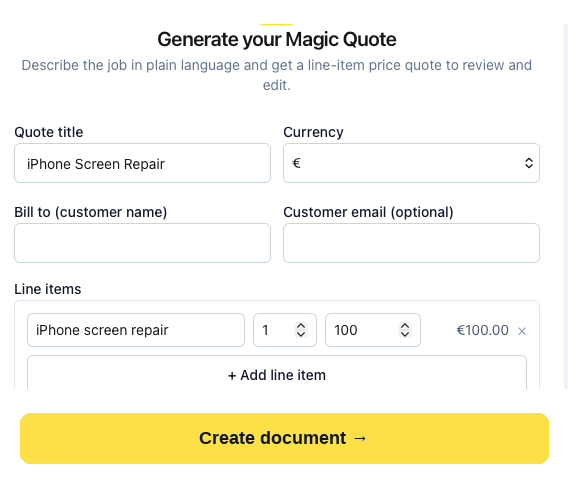
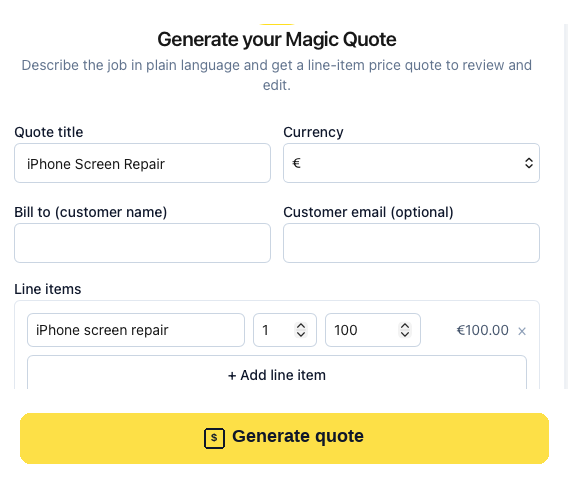
Home preview: fix Magic Quote button copy, split into A/B, add dev section to B
- hero-magic-quote.png: the synthesized bottom button read 'Create
  document ->' (assumed review-step CTA). Corrected against a real
  screenshot Michael sent -- the actual button is 'Generate quote' with
  a receipt/$ icon, the describe-step's primary CTA (magic-quote-form.tsx,
  variant="cta"), which is genuinely yellow/navy in the live product
  already, no recoloring needed. New script
  scripts/fix-hero-magic-quote-button.py only touches the button region
  it owns, doesn't re-run the earlier badge-crop step.

- /home-preview renamed to /home-preview-a (still exactly what it was).

- New /home-preview-b: same page, plus a Documenso-inspired developer/API
  section (homepage-tier1-preview.tsx's new DeveloperApiSection,
  showDeveloperSection prop, default false so A is unaffected). The JSON
  shown is real -- the same GET /api/v1/documents/{id} response already
  published on /developers, not invented. Uses the real black badge-only
  brand mark (public/brand/signedby-badge-black-small.png, copied from
  brand-assets/badge-only/) in place of the yellow icon-squares the
  Sign/Seal/Quote/Draft reasons use, direct ask. Genuinely animated (slow
  vertical scroll loop, globals.css's .animate-json-scroll) where
  Documenso's own panel turns out to be static.

- Verified (not just assumed) the hero crossfade's order and autoplay:
  keyframe visible-window (8-26%) + animationDelay = i*HERO_LOOP_SECONDS/
  length gives Sign->Seal->Quote->Draft in order, and nothing gates the
[…]

Changed region(s): [[0.3292, 0.8696, 0.6585, 0.9317]]

diff --git a/src/components/homepage-tier1-preview.tsx b/src/components/homepage-tier1-preview.tsx
@@ -201,7 +201,128 @@ const REASONS: {
 const HERO_LOOP = REASONS;
 const HERO_LOOP_SECONDS = 12;
 
-export function HomepageTier1Preview({ currency }: { currency: Currency }) {
+// Developer/API section — /home-preview-b only (2026-08-12, direct ask:
+// "take some inspiration from documenso.com especially the api animation").
+// A live Chrome pass over documenso.com found their "API animation" is
+// actually a static, full-bleed, syntax-highlighted JSON response panel —
+// no motion at all (see HOMEPAGE_HERO_VIDEO_AND_SECOND_HALF_SCOPE.md's
+// addendum). Two deliberate departures from copying that panel outright:
+// (1) the JSON below is REAL — the exact GET /api/v1/documents/{id}
+// response already published on /developers (same id used there,
+// 7fdd90eb-...), not an invented shape, matching the same real-facts rule
+// the /vs/* pages follow; (2) it's actually animated (a slow vertical
+// scroll loop, globals.css's .animate-json-scroll), since that's what was
+// asked for, not what Documenso's own page does.
+type JsonTok = { t: string; c?: string };
+const jline = (...toks: JsonTok[]) => toks;
+const KEY = "text-sky-300";
+const STR = "text-emerald-300";
+const LIT = "text-amber-300";
+const PUNCT = "text-slate-500";
+
+const JSON_LINES: JsonTok[][] = [
+  jline({ t: "{", c: PUNCT }),
+  jline({ t: '  "id"', c: KEY }, { t: ": ", c: PUNCT }, { t: '"7fdd90eb-9152-4031-a767-c0632126dc53"', c: STR }, { t: ",", c: PUNCT }),
+  jline({ t: '  "title"', c: KEY }, { t: ": ", c: PUNCT }, { t: '"Freelance Agreement"', c: STR }, { t: ",", c: PUNCT }),
+  jline({ t: '  "status"', c: KEY }, { t: ": ", c: PUNCT }, { t: '"completed"', c: STR }, { t: ",", c: PUNCT }),
+  jline({ t: '  "created_at"', c: KEY }, { t: ": ", c: PUNCT }, { t: '"2026-07-28T10:04:00Z"', c: STR }, { t: ",", c: PUNCT }),
+  jline({ t: '  "updated_at"', c: KEY }, { t: ": ", c: PUNCT }, { t: '"2026-07-29T09:11:00Z"', c: STR }, { t: ",", c: PUNCT }),
+  jline({ t: '  "expires_at"', c: KEY }, { t: ": ", c: PUNCT }, { t: "null", c: LIT }, { t: ",", c: PUNCT }),
+  jline({ t: '  "signers"', c: KEY }, { t: ": [", c: PUNCT }),
+  jline({ t: "    {", c: PUNCT }),
+  jline({ t: '      "email"', c: KEY }, { t: ": ", c: PUNCT }, { t: '"jane@acme.com"', c: STR }, { t: ",", c: PUNCT }),
+  jline({ t: '      "name"', c: KEY }, { t: ": ", c: PUNCT }, { t: '"Jane"', c: STR }, { t: ",", c: PUNCT }),
+  jline({ t: '      "status"', c: KEY }, { t: ": ", c: PUNCT }, { t: '"signed"', c: STR }, { t: ",", c: PUNCT }),
+  jline({ t: '      "signed_at"', c: KEY }, { t: ": ", c: PUNCT }, { t: '"2026-07-29T09:11:00Z"', c: STR }, { t: ",", c: PUNCT }),
+  jline({ t: '      "auth_required"', c: KEY }, { t: ": ", c: PUNCT }, { t: "false", c: LIT }, { t: ",", c: PUNCT }),
+  jline({ t: '      "auth_verified"', c: KEY }, { t: ": ", c: PUNCT }, { t: "false", c: LIT }),
+  jline({ t: "    }", c: PUNCT }),
+  jline({ t: "  ]", c: PUNCT }),
+  jline({ t: "}", c: PUNCT }),
+];
+
+function JsonPanelContent() {
+  return (
+    <>
+      {JSON_LINES.map((line, i) => (
+        <div key={i} className="whitespace-pre">
+          {line.map((tok, j) => (
+            <span key={j} className={tok.c}>
+              {tok.t}
+            </span>
+          ))}
+        </div>
+      ))}
+    </>
+  );
+}
+
+function DeveloperApiSection() {
+  return (
+    <section className="mx-auto w-full max-w-5xl px-6 py-12">
+      <div className="grid gap-10 sm:grid-cols-2 sm:items-center">
+        <div className="text-center sm:text-left">
+          <div className="mb-3 flex items-center justify-center gap-2.5 sm:justify-start">
+            {/* Black badge mark in place of the yellow icon-squares the
+                Sign/Seal/Quote/Draft reasons use above — direct ask, "use a
+                black version of the logo badge for that dev section in
+                place of the other badges." Real brand asset
+                (signedby-badge-black-slash-optionC), not a recolored
+                lucide icon like the others. */}
+            <Image
+              src="/brand/signedby-badge-black-small.png"
+              alt=""
+              width={28}
+              height={28}
+              className="h-7 w-7 rounded-lg"
+            />
+            <h2 className="text-2xl font-semibold text-slate-900">Built for developers</h2>
+          </div>
+          <p className="max-w-sm text-slate-600 sm:max-w-none">
+            A REST API and outbound webhooks — create and send documents from your CRM, poll status, or get
+            notified the moment something&apos;s signed. Starts metered on Pro, fully unlimited on Business.
+          </p>
+          <Link
+            href="/developers"
+            className="mt-4 inline-flex items-center gap-1.5 text-sm font-semibold text-slate-900 hover:text-slate-700"
+          >
+            Check the API docs <span aria-hidden>→</span>
+          </Link>
+        </div>
+
+        <div className="relative h-64 overflow-hidden rounded-xl border border-slate-800 bg-slate-900 shadow-[0_1px_2px_rgba(15,23,42,0.04),0_10px_28px_-8px_rgba(15,23,42,0.25)]">
+          <div className="flex items-center gap-1.5 border-b border-slate-800 bg-slate-900/95 px-4 py-2.5 text-xs text-slate-400">
+            <span className="h-2 w-2 rounded-full bg-slate-700" />
+            <span className="h-2 w-2 rounded-full bg-slate-700" />
+            <span className="h-2 w-2 rounded-full bg-slate-700" />
+            <span className="ml-2 font-mono">GET /api/v1/documents/{"{id}"}</span>
+          </div>
+          <div className="h-[calc(100%-2.75rem)] overflow-hidden [mask-image:linear-gradient(to_bottom,transparent,black_12%,black_88%,transparent)]">
+            <div className="animate-json-scroll px-4 py-4 font-mono text-xs leading-relaxed">
+              <JsonPanelContent />
+              {/* Duplicate block for a seamless loop — same technique as
+                  the trusted-by marquee's translateX(-50%) above, on the Y
+                  axis instead. */}
+              <div className="mt-4" aria-hidden="true">
+                <JsonPanelContent />
+              </div>
+            </div>
+          </div>
+        </div>
+      </div>
+    </section>
+  );
+}
+
+export function HomepageTier1Preview({
+  currency,
+  showDeveloperSection = false,
+}: {
+  currency: Currency;
+  // /home-preview-b only (2026-08-12) — see DeveloperApiSection's own
+  // comment above. Defaults false so /home-preview-a is unaffected.
+  showDeveloperSection?: boolean;
+}) {
   return (
     <>
       <header className="mx-auto flex w-full max-w-5xl items-center justify-between px-6 py-6">
@@ -335,6 +456,8 @@ export function HomepageTier1Preview({ currency }: { currency: Currency }) {
           ))}
         </div>
       </section>
+
+      {showDeveloperSection && <DeveloperApiSection />}
 
       <section className="mx-auto w-full max-w-3xl px-6 pb-16">
         <p className="mb-4 text-center text-xs font-medium uppercase tracking-wide text-slate-400">Trusted by</p>

diff --git a/src/app/home-preview-b/page.tsx b/src/app/home-preview-b/page.tsx
@@ -3,34 +3,28 @@ import Link from "next/link";
 import { HomepageTier1Preview } from "@/components/homepage-tier1-preview";
 import { getRequestCurrency } from "@/lib/currency.server";
 
-// Tier 1 homepage variant from ARACOR_INSPIRED_PRIORITIES.md — direct ask
-// 2026-08-11: "Can we do Tier 1 but as a homepage variant we can look at
-// on dev initially." A private, unlinked route rather than a change to
-// the live homepage or a third value on homepageVariantFlag (src/flags.ts)
-// — nothing here is measured or traffic-split, it's just a page to look
-// at before deciding whether to promote any of it. noindex so it never
-// gets crawled/indexed as a duplicate homepage in the meantime.
-//
-// Renamed from /home-preview to /home-preview-a (2026-08-12, direct ask)
-// once a second variant (/home-preview-b, the Documenso-inspired
-// developer section) needed its own route to compare side by side.
+// Variant B of the Tier 1 homepage preview (2026-08-12, direct ask) — same
+// page as /home-preview-a, plus a Documenso-inspired developer/API section
+// (see DeveloperApiSection in homepage-tier1-preview.tsx for the real
+// content and what was/wasn't copied from documenso.com). Private,
+// unlinked, noindexed — same status as /home-preview-a, just a second
+// route so the two can be compared side by side rather than overwriting A.
 export const metadata: Metadata = {
-  title: "Homepage preview (Tier 1 — A) — SignedBy",
+  title: "Homepage preview (Tier 1 — B, + developers) — SignedBy",
   robots: { index: false, follow: false },
 };
 
-export default async function HomePreviewAPage() {
+export default async function HomePreviewBPage() {
   const currency = await getRequestCurrency();
 
   return (
     <main className="flex min-h-screen flex-col bg-white">
       <div className="bg-slate-900 px-6 py-2 text-center text-xs text-slate-300">
-        Internal preview — Tier 1, variant A (hero crossfade + screenshot-paired reasons), not linked from the live
-        site. See also <a href="/home-preview-b" className="underline hover:text-white">variant B</a> (adds a
-        developer/API section).
+        Internal preview — Tier 1, variant B (adds a developer/API section, Documenso-inspired), not linked from the
+        live site. See also <a href="/home-preview-a" className="underline hover:text-white">variant A</a>.
       </div>
 
-      <HomepageTier1Preview currency={currency} />
+      <HomepageTier1Preview currency={currency} showDeveloperSection />
 
       <footer className="mt-auto border-t border-slate-100 px-6 py-8 text-center text-xs text-slate-400">
         <p>© {new Date().getFullYear()} SignedBy. signedby.ai</p>

diff --git a/src/app/globals.css b/src/app/globals.css
@@ -65,6 +65,32 @@ body {
   animation-play-state: paused;
 }
 
+/* /home-preview-b's developer/API section — a real API response scrolling
+   in a slow vertical loop, styled after documenso.com's JSON-panel section
+   (checked live 2026-08-12: theirs turns out to be a static panel, not
+   actually animated — see HOMEPAGE_HERO_VIDEO_AND_SECOND_HALF_SCOPE.md's
+   addendum). Direct ask was for real motion here, so this makes it
+   genuinely animated where Documenso's own version isn't. Same
+   duplicate-content-then-translate-50%-loop technique as
+   .animate-logo-marquee above, just on the Y axis. Starts on load like
+   every other animation on this page — no scroll-trigger, no JS. */
+@keyframes json-scroll {
+  from {
+    transform: translateY(0);
+  }
+  to {
+    transform: translateY(-50%);
+  }
+}
+
+.animate-json-scroll {
+  animation: json-scroll 16s linear infinite;
+}
+
+.animate-json-scroll:hover {
+  animation-play-state: paused;
+}
+
 /* /home-preview's "hero video" — a looping crossfade of real product
    screenshots stacked in one container (see homepage-tier1-preview.tsx),
    not an actual video file. Same idea as Aracor's looping hero animation

diff --git a/scripts/fix-hero-magic-quote-button.py b/scripts/fix-hero-magic-quote-button.py
@@ -1,0 +1,94 @@
+#!/usr/bin/env python3
+"""Fix hero-magic-quote.png's bottom button (2026-08-12, sixth pass).
+
+Direct correction after Michael sent a real screenshot of the actual
+button: the fifth pass (edit-hero-magic-quote.py) synthesized a
+"Create document ->" button, assuming the itemized editor screen ends on
+its review-step CTA. Wrong button -- the real screenshot shows "Generate
+quote" with a small receipt/$ icon, which is the DESCRIBE step's primary
+CTA (magic-quote-form.tsx line ~463-471, variant="cta", real copy
+ql("generateQuote") = "Generate quote", Receipt icon). That button is
+*already* yellow/navy in the live product (Button variant "cta" =
+bg-yellow-300/text-slate-900, button.tsx line 22) -- no marketing
+recoloring needed here, unlike the review-step button the last pass
+mistakenly used.
+
+Only touches the button region this script itself owns (the last
+BTN_HEIGHT+BTN_BOTTOM_PAD px of the current 568x483 image, appended by
+edit-hero-magic-quote.py) -- does not re-run that script's badge-crop
+step, which already ran once and would double-crop if repeated.
+"""
+import os
+from PIL import Image, ImageDraw, ImageFont
+
+SRC = os.path.join(os.path.dirname(__file__), "..", "public", "hero-magic-quote.png")
+
+BTN_MARGIN_X = 20
+BTN_HEIGHT = 50
+BTN_BOTTOM_PAD = 20
+
+YELLOW = (253, 224, 71)  # tailwind yellow-300
+NAVY = (15, 23, 42)  # tailwind slate-900
+RADIUS = 10
+
+FONT_PATH = "/usr/share/fonts/truetype/liberation/LiberationSans-Bold.ttf"
+
+
+def draw_receipt_icon(draw, cx, cy, size):
+    """Small receipt-style icon: a rounded square outline with a $ glyph
+    inside -- approximates lucide's Receipt icon (real icon used on this
+    button live) at marketing-asset scale rather than reproducing its
+    exact SVG path.
+
+    2026-08-12 fix: the previous version set `bottom = cy - half * 0.35`,
+    which is ABOVE cy -- the box only spanned the top ~15% of `size`
+    instead of a full square centered on cy, so the icon rendered as a
+    squashed sliver (direct report: "the icon got squashed"). Now a
+    proper square, top=cy-half to bottom=cy+half.
+    """
+    half = size / 2
+    left, top, right, bottom = cx - half, cy - half, cx + half, cy + half
+    draw.rounded_rectangle((left, top, right, bottom), radius=3, outline=NAVY, width=2)
+    font = ImageFont.truetype(FONT_PATH, int(size * 0.58))
+    label = "$"
+    bbox = draw.textbbox((0, 0), label, font=font)
+    tw, th = bbox[2] - bbox[0], bbox[3] - bbox[1]
+    draw.text((cx - tw / 2 - bbox[0], cy - th / 2 - bbox[1]), label, font=font, fill=NAVY)
+
+
+def main():
+    im = Image.open(SRC).convert("RGB")
+    w, h = im.size
+
+    btn_box = (BTN_MARGIN_X, h - BTN_BOTTOM_PAD - BTN_HEIGHT, w - BTN_MARGIN_X, h - BTN_BOTTOM_PAD)
+
+    draw = ImageDraw.Draw(im)
+    # Erase the previous button (white matches this card's background --
+    # see edit-hero-magic-quote.py's `Image.new(..., "white")` base).
+    draw.rectangle((0, btn_box[1] - 4, w, h), fill="white")
+    draw.rounded_rectangle(btn_box, radius=RADIUS, fill=YELLOW)
+
+    label = "Generate quote"
+    font = ImageFont.truetype(FONT_PATH, 18)
+    text_bbox = draw.textbbox((0, 0), label, font=font)
+    text_w = text_bbox[2] - text_bbox[0]
+    text_h = text_bbox[3] - text_bbox[1]
+
+    icon_size = 20
+    gap = 8
+    group_w = icon_size + gap + text_w
+    group_left = (btn_box[0] + btn_box[2]) / 2 - group_w / 2
+    cy = (btn_box[1] + btn_box[3]) / 2
+
+    icon_cx = group_left + icon_size / 2
+    draw_receipt_icon(draw, icon_cx, cy, icon_size)
+
+    text_x = group_left + icon_size + gap
+    draw.text((text_x - text_bbox[0], cy - text_h / 2 - text_bbox[1]), label, font=font, fill=NAVY)
+
+    im.save(SRC)
+    print(f"wrote {SRC} {im.size}")
+
+
+if __name__ == "__main__":
+    main()

diff --git a/HOMEPAGE_HERO_VIDEO_AND_SECOND_HALF_SCOPE.md b/HOMEPAGE_HERO_VIDEO_AND_SECOND_HALF_SCOPE.md
@@ -107,6 +107,47 @@ mismatch for SignedBy's anti-enterprise positioning — that objection was
 about aesthetic, not this specific interaction mechanism, but worth
 confirming you want the mechanism without the register before building it.
 
+## Addendum, 2026-08-12 — Documenso inspiration
+
+Checked documenso.com live (Chrome, not just static fetch, since the ask
+was specifically about "the API animation"). Two patterns worth stealing
+the *mechanism* of, not the visual identity:
+
+**The hero isn't actually animated on load — it's a static product-embed
+mockup.** A dark browser-chrome frame ("Your App") with a faint dotted
+grid and a single "Start" button; nothing plays automatically, and
+clicking Start didn't trigger anything visible either (likely wired to
+their actual signup flow, not a demo). So there's no motion to copy here
+— what's copy-worthy is the *framing*: "this is what it looks like
+embedded in your product," not "this is our product." That's a specific
+pitch to developers evaluating an API, different from what our hero pill
+crossfade is trying to say.
+
+**The "API animation" is a real JSON response, not a video.** Below the
+fold, their API section runs a genuine, syntax-highlighted API response
+(a `templates` payload — id, fields, recipients) as a full-bleed,
+top/bottom-faded background panel, with a green "Check our API" button
+floating centered on top of it. It reads as "peek at the real wire
+format," which is a credible signal to a developer audience specifically
+*because* it's real JSON, not marketing copy pretending to be technical.
+
+**A third pattern, not asked about but relevant:** a small floating
+"notification card" (a signing-complete toast, drop-shadowed, tilted
+slightly) layered over the document-list mockup in the "Signing" section
+— cheap motion-adjacent polish (it's static, just visually layered) that
+reads as more alive than a flat screenshot without needing real video.
+
+### B5 — a developer-facing panel using this mechanism
+None of this replaces Part A's hero-video decision above — it's a
+second-half addition, closest to slotting in alongside or after B1's
+reasons section. Concretely: pull a real response from one of our own
+`/api/v1/*` routes (e.g. `documents/[id]` or the `void` response shape)
+and render it the same way — real JSON, not invented — with a CTA to
+`/developers`. This is honest in the same way the `/vs/*` pages'
+real-facts rule is: the payload would be our actual API, not a mockup.
+Low effort relative to a real video, and gives the site a developer-
+credibility beat it currently doesn't have anywhere above the fold.
+
 ## Sequencing note
 
 Whichever direction gets picked here is exactly the category of change
